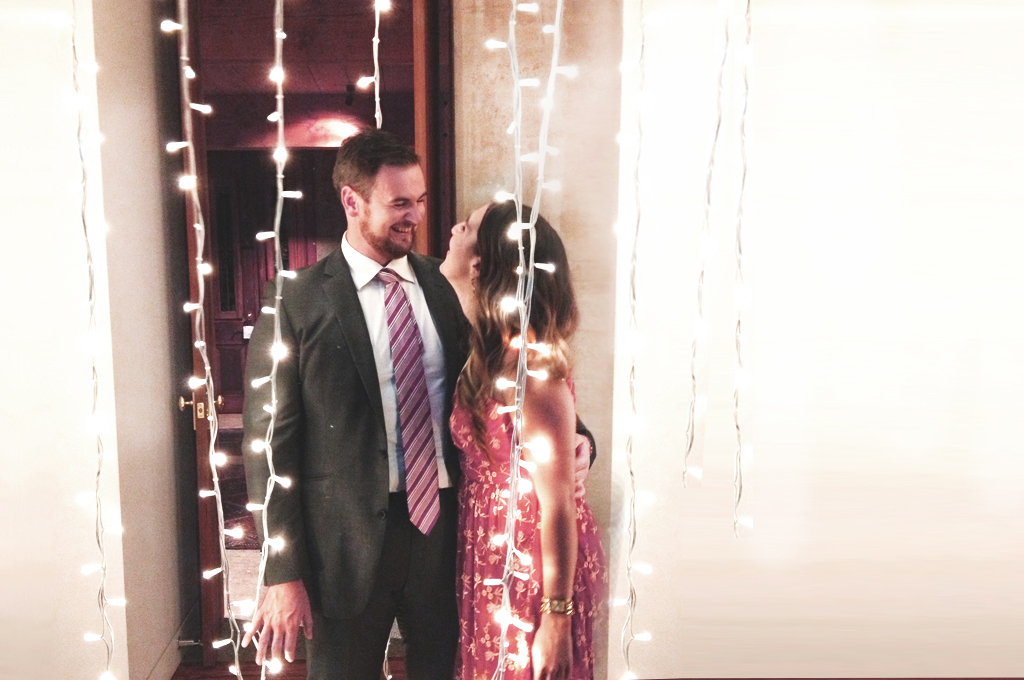
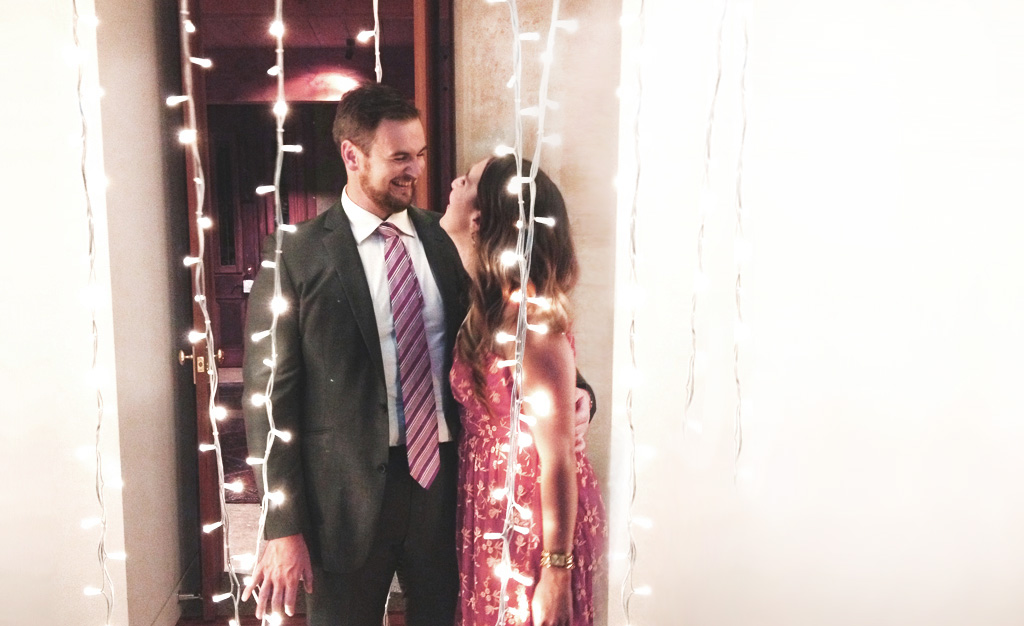
updated images and text colours

diff --git a/css/styles.css b/css/styles.css
@@ -16,7 +16,7 @@ body {
 
 a {
     cursor: pointer !important;
-    color: #d90a40;
+    color: #c92e9f;
 }
 
 a:hover {
@@ -32,7 +32,7 @@ h1 {
     font-size: 62px;
     line-height: 66px;
     font-family: Raleway;
-    color: #3f3f3f;
+    color: #032d7b;
     text-transform: uppercase;
     text-align: left;
 }
@@ -41,7 +41,7 @@ h2 {
     font-size: 35px;
     line-height: 38px;
     margin: 50px 0 40px 0;
-    color: #3f3f3f;
+    color: #c92e9f;
     text-transform: uppercase;
 }
 
@@ -49,7 +49,7 @@ h3 {
     font-size: 35px;
     line-height: 35px;
     margin: 35px 0 25px 0;
-    color: #3f3f3f;
+    color: #c92e9f;
     text-transform: uppercase;
 }
 
@@ -127,7 +127,7 @@ hr  {
 
 .btn-rsvp {
     align-content: center;
-    background-color: #d90a40;
+    background-color: #c92e9f;
     color: #fff;
     text-decoration: none;
     font-size: 14px;
@@ -147,8 +147,8 @@ hr  {
 
 .btn-thanks {
     align-content: center;
-    border:1px solid #d90a40;
-    color: #d90a40;
+    border:1px solid #c92e9f;
+    color: #c92e9f;
     text-decoration: none;
     font-size: 14px;
     line-height: 18px;
@@ -198,7 +198,7 @@ label {
 
 .checkbox-rsvp input[type="checkbox"]:checked + label::before,
 .checkbox-rsvp input[type="radio"]:checked + label::before {
-    border-color: #f5b0a3;
+    border-color: #c92e9f;
 }
 
 .checkbox label::before {
@@ -213,7 +213,7 @@ label {
     left: 1px;
     top: 1px;
     font-size: 20px;
-    color: #f5b0a3;
+    color: #c92e9f;
 }
 
 .radio label::before {
@@ -238,13 +238,13 @@ label {
 }
 
 .radio-rsvp input[type="radio"] + label::after {
-    background-color: #f5b0a3;
+    background-color: #c92e9f;
 }
 .radio-rsvp input[type="radio"]:checked + label::before {
-    border-color: #f5b0a3;
+    border-color: #c92e9f;
 }
 .radio-rsvp input[type="radio"]:checked + label::after {
-    background-color: #f5b0a3;
+    background-color: #c92e9f;
 }
 
 /************************************************************
@@ -272,7 +272,7 @@ html, body {
  ************************************************************/
 
 .navbar-default {
-    background: rgba(255, 255, 255, 0.9);
+    background: rgba(255, 255, 255, 0.8);
     border: none;
     box-shadow: none;
     margin-bottom: 0px;
@@ -282,7 +282,7 @@ html, body {
 
 .navbar > .container-fluid .navbar-brand, .navbar-default a {
     font-size: 12px;
-    color: black;
+    color: #032d7b;
     text-decoration: none;
     text-transform: uppercase;
     margin: 20px 10px;
@@ -292,12 +292,12 @@ html, body {
 }
 
 .navbar-default .navbar-nav > li > a, .navbar-default a.navbar-brand {
-    color: #000;
+    color: #032d7b;
 }
 
 .navbar-default .navbar-nav > li > a:hover, .navbar-default .navbar-nav > li > a.active, .navbar-default a.navbar-brand:hover, .navbar-default a.navbar-brand.active {
-    color: #c03ac5;
-    border-color: #c03ac5 !important;
+    color: #c92e9f;
+    border-color: #c92e9f !important;
 }
 
 .navbar-default .navbar-toggle {
@@ -314,13 +314,13 @@ html, body {
 }
 
 .navbar-default .navbar-toggle:focus, .navbar-default .navbar-toggle:hover {
-    color: #c03ac5;
+    color: #c92e9f;
     background: none;
-    border-color: #c03ac5 !important;
+    border-color: #c92e9f !important;
 }
 
 .navbar-default .navbar-toggle:focus .icon-bar, .navbar-default .navbar-toggle:hover .icon-bar {
-    background-color: #c03ac5;
+    background-color: #c92e9f;
 }
 
 .navbar-collapse {
@@ -344,7 +344,7 @@ html, body {
  ************************************************************/
 
 .hero {
-    height: 250px;
+    height: 480px;
     width: 100%;
     position: absolute;
     background-size:cover;
@@ -358,27 +358,28 @@ html, body {
 
 .index .hero {
     background-image: url("../images/index-hero.jpg");
-    background-position: center -110px;
+    background-position: center top;
 }
+
 
 .rsvp .hero, .thanks .hero, .sorry .hero {
     background-image: url("../images/rsvp-hero.jpg");
-    background-position: center;
+    background-position: center top;
 }
 
 .photos .hero {
     background-image: url("../images/photos-hero.jpg");
-    background-position: center;
+    background-position: center top;
 }
 
 .information .hero {
     background-image: url("../images/information-hero.jpg");
-    background-position: center;
+    background-position: center top;
 }
 
 .notfound .hero {
-    background-image: url("../images/notfound-hero.jpg");
-    background-position: center;
+    background-image: url("../images/index-hero.jpg");
+    background-position: center top;
 }
 
 @media screen and (max-width: 800px) {
@@ -394,11 +395,22 @@ html, body {
 
 @media screen and (max-width: 600px) {
     .hero {
-        height: 120px;
+        height: 190px;
     }
 
     .index .hero {
         height: 175px;
+    }
+}
+
+@media screen and (max-width: 410px) {
+    .hero {
+        height: 190px;
+    }
+
+    .index .hero {
+        height: 180px;
+        background-position: center -10px;
     }
 }
 
@@ -407,7 +419,7 @@ html, body {
  ************************************************************/
 
 .container-content {
-    margin-top: 180px;
+    margin-top: 400px;
 }
 
 .index .container-content {
@@ -426,7 +438,7 @@ html, body {
 
 @media screen and (max-width: 600px) {
     .container-content {
-        margin-top: 50px;
+        margin-top: 120px;
     }
 
     .index .container-content {
@@ -472,7 +484,7 @@ footer, footer a {
     margin: 20px;
     font-family:"Jasmine Reminiscentse Bold";
     text-transform: none;
-    color: #3f3f3f;
+    color: #032d7b;
 }
 
 .index hr {
@@ -515,7 +527,7 @@ footer, footer a {
 .rsvp .rsvp-options {
     padding: 20px;
     margin: 20px 1px;
-    border: 1px solid #f5b0a3;
+    border: 1px solid #c92e9f;
 }
 
 /************************************************************
@@ -524,9 +536,22 @@ footer, footer a {
 
 .photo-app a {
     margin:0 20px 0 0;
+    float: left;
 }
 
 .photo-app img {
     height: auto;
     width: 200px;
+}
+
+@media screen and (max-width: 800px) {
+    .photo-app a {
+        margin:0 0 20px 0;
+    }
+}
+
+@media screen and (max-width: 600px) {
+    .photo-app a {
+        margin:0 0 15px 0;
+    }
 }
